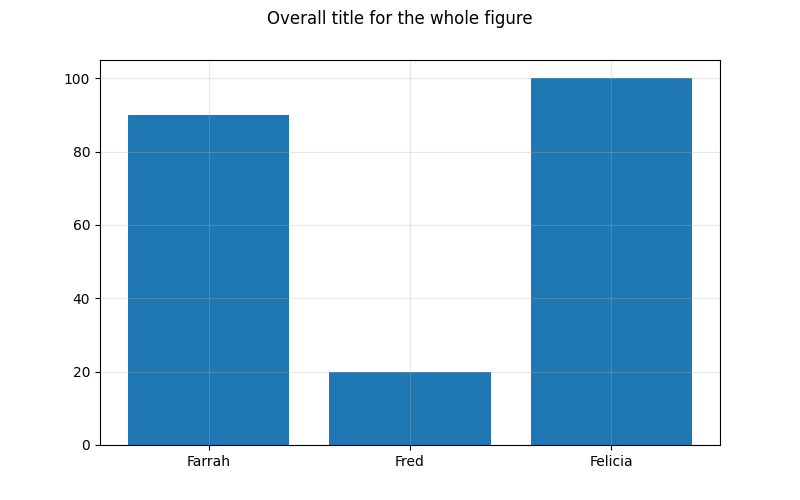
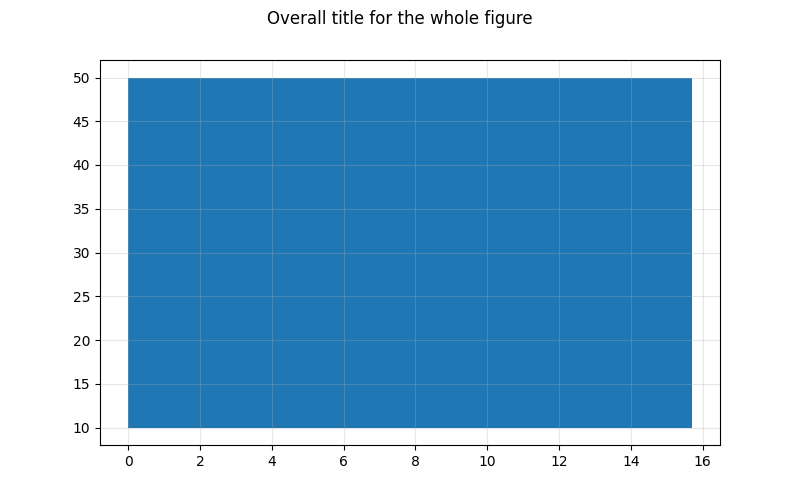
a4

diff --git a/matplotlib/silly/Yes...This Extension Works.PY b/matplotlib/silly/Yes...This Extension Works.PY
@@ -16,13 +16,16 @@ ax.grid(True, alpha=0.3)
 # for i in range(a, b):
 #     ax.scatter(i, math.sin(i*scale))
 
-# x = np.arange(0, 5*np.pi, 0.1)
-# y = np.sin(x)
-# plt.plot(x, y)
+x = np.arange(0, 5*np.pi, 0.1)
+y = np.sin(x)
+plt.plot(x, y)
+ax.fill(x, y)
+# ax.fill_between(x, 10, 50)
 
-categories = ["Farrah", "Fred", "Felicia"]
-levels = [90, 20, 100]
-plt.bar(categories, levels)
+
+# categories = ["Farrah", "Fred", "Felicia"]
+# levels = [90, 20, 100]
+# plt.bar(categories, levels)
 
 plt.show()
 fig.savefig("img/plot.png")